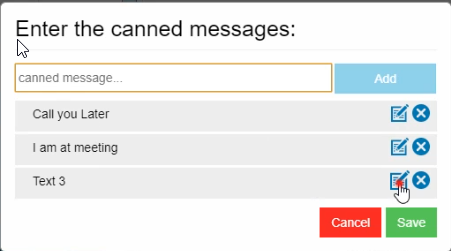
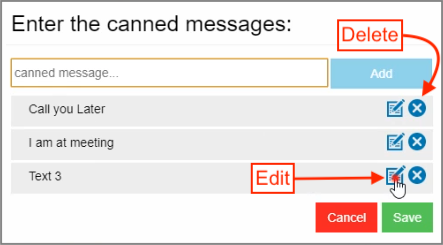
[TUT-35988] EKD 1.4 pre-defined section updates

diff --git a/src/ekd/1-4/guide/usage/index.md b/src/ekd/1-4/guide/usage/index.md
@@ -104,7 +104,7 @@ Before beginning a layout, please make note of the following:
  _Click image to enlarge, ESC to exit_.
  <br>
 8. **Repeat Step 7** until the layout is configured as desired. 
-9. **Click "Save Layout" button** to store settings. 
+9. **Click "Save Layout" button** to store the project settings. 
 10. **Click "Save Project" to create a project file for deployment**.
 
 -----
@@ -160,7 +160,7 @@ Before beginning a layout, please make note of the following:
  <br>
 7. **Click "Save Grid Layout" button** to store settings.<br> **`NOTE:` Once a grid is saved, its properties cannot be changed**.
 8. **Repeat Step 6** until all buttons in the layout are configured as desired. 
-9. **Click "Save Layout" button** to store settings. 
+9. **Click "Save Layout" button** to store the project settings. 
 10. **Click "Save Project" to create a project file for deployment**.
 <br>
 
@@ -257,7 +257,7 @@ Button Actions supported by EKD include predefined command strings for generatin
  _Click image to enlarge, ESC to exit_.
 <br>
 3. **Repeat Steps 1 and 2** until each button contains the desired Action.  
-4. **Click "Save Layout" button** to store settings. 
+4. **Click "Save Layout" button** to store the project settings. 
 5. **Click "Save Project" to create a project file for deployment**.
 * **Predefined command strings -** Enter an Android keyEvent value in the pop-up:
  * **key in caps -** Outputs an upper-case letter corresponding to the keyValue entered 
@@ -269,7 +269,7 @@ Button Actions supported by EKD include predefined command strings for generatin
  * **Switch-Scan -** Switches to the “scanning button" layout
  * **Switch-&#35;&#42;&#47; -** Switches to the “&#35;&#42;&#47;” (symbolic) layout
  * **Switch-CustomLayout -** Switches to a custom layout (enter a valid layout name in the pop-up)
- * **Scan Trigger -** Scans a barcode using DataWedge, which must be configured in advance of this command. See [DataWedge documentation](/datawedge/7-4/guide/utilities/ekb/) for more information. **Supported only with Press Action**
+ * **Scan Trigger -** Scans a barcode using DataWedge, which must be configured in advance of this command. See [DataWedge documentation](/datawedge/latest/guide/utilities/ekb/) for more information. **Supported only with Press Action**
 
 **See [all Unicode characters](https://unicode-table.com/en/)**<br>
 **See all [Android keyEvent values](https://developer.android.com/reference/android/view/KeyEvent)**
@@ -295,9 +295,7 @@ Button Actions supported by EKD include predefined command strings for generatin
 -----
 ### Predefined Responses
 
-Predefined responses appear in a list for easy selection, improving the speed and accuracy of responses when using Enterprise Keyboard. 
-
-##### This feature requires EKB 3.4 or later. 
+Predefined responses appear in a list for easy selection, improving the speed and accuracy of responses when using Enterprise Keyboard. Any key can contain a list of predefined responses that pops up when that key is pressed. Tapping on an item from the list enters that response into the focused field as if it had been typed in manually. 
 
 **Example Responses**:
 * "I'm in a meeting...please call back later"
@@ -306,19 +304,22 @@ Predefined responses appear in a list for easy selection, improving the speed an
 * "Please refer to patient record"
 * "Item out of stock"
 
+> **NOTE**: This feature requires Enterprise Keyboard 3.4 or later on the device. 
+
 #### To create predefined response(s): 
 
-1. In the Action section of the Button Properties panel, **select "Canned text" from the drop-down**: 
-<img alt="" style="height:250px" src="EKD-14_pre-defined_text_1.png"/>
+1. Create (or select) a button in the current layout.  
+2. In the Action section of the Button Properties panel, **select "Canned text" from the drop-down**: 
+<img alt="" style="height:150px" src="EKD-14_pre-defined_text_1.png"/>
  _Click image to enlarge, ESC to exit_.
 <br>
-2. **Enter a desired response** in the pop-up:
+3. **Enter a desired response** in the pop-up:
  <img alt="" style="height:150px" src="EKD-14_pre-defined_text_2.png"/>
-3. Click "Add" to store response and add another.
-4. Repeat Steps 2 and 3 until all responses are stored.
-5. Click "Save" to store all responses and exit pop-up.
-6. **Click "Save Layout" button** to store settings. 
-7. **Click "Save Project" to create a project file for deployment**.
+4. Click "Add" to store response and add another.
+5. Repeat Steps 3 and 4 until all responses are stored.
+6. Click "Save" to store all responses and exit pop-up.
+7. **Click "Save Layout" button** to store the project settings. 
+8. **Click "Save Project" to create a project file for deployment**.
 <br>
 
 ##### Predefined responses are stored and deployed with the layout.
@@ -327,23 +328,24 @@ Predefined responses appear in a list for easy selection, improving the speed an
 
 #### To edit or delete Predefined Response(s): 
 
-1. Open the key layout that contains the response list to be edited or deleted.
-2. In the layout section, select the button that contains the response list to be edited.  
+1. **Open the key layout project that contains the response list(s)** to be modified.
+2. In the layout, **select the button that contains the response list(s)** to be edited.  
 3. In the Action section of the Button Properties panel, **select "Canned text" from the drop-down**:
- <img alt="" style="height:250px" src="EKD-14_pre-defined_text_3.png"/>
+ <img alt="" style="height:250px" src="EKD-14_pre-defined_text_1.png"/>
  _Click image to enlarge, ESC to exit_.
 <br>
- A pop-up appears with the previously saved list of responses.
+ A pop-up appears with the list of responses currently stored with that button:
  <img alt="" style="height:250px" src="edit_predefined_message_1.png"/>
  _Click image to enlarge, ESC to exit_.
-4. **To Delete**, click the "X" and <u>skip to Step 8</u>.
+4. **To Delete a response**, click the "X" for the response(s). **<u>Then skip to Step 8</u>**.<br>
+ `WARNING:` Responses are deleted immediately. This action cannot be undone. 
 5. **To Edit**, click the edit button for the response to be edited:<br>
  <img alt="" style="height:250px" src="edit_predefined_message_2.png"/>
  _Click image to enlarge, ESC to exit_.
 6. Edit the response as desired.
-7. Repeat Steps 5 and 6 until all predefined responses appear as desired.  
+7. **Repeat Steps 5 and 6** until all predefined responses appear as desired.  
 8. **Click Save to store changes and exit the pop-up**. 
-9. **Click "Save Layout" button** to store settings. 
+9. **Click "Save Layout" button** to store the new project settings. 
 10. **Click "Save Project" to create a project file for deployment**.
 <br>
 
@@ -496,7 +498,7 @@ The data for custom key layout(s) is stored in the custom key-layout definition 
   
 ## VI. Switch Layouts
 
-This section explains the program logic involved with switching layouts with Android intents when focus of an input field changes. 
+This section explains the program logic involved when switching layouts with Android intents when focus of an input field changes. 
 
 > For programming guidance, see [Enterprise Keyboard APIs](/enterprise-keyboard/latest/guide/apis). <br>
 > For changing layouts through DataWedge, see the [DataWedge EKB configuration guide](/datawedge/latest/guide/utilities/ekb/). 
@@ -508,13 +510,11 @@ This section explains the program logic involved with switching layouts with And
  `/enterprise/device/settings/ekb/config/`
 * **Layout file must contain ALL layouts** being used by apps on the device
 
-> See the [Enterprise Keyboard Designer Guide](/ekd) for help creating a layout file. 
-
 -----
 
 ### Use Case 1
 
-This case describes an Android app with two text input fields. Substitute sample names shown below with those in the deployed [layout definition file](../deploy). 
+This case describes an Android app with two text input fields. Substitute sample names shown below with those in the deployed layout definition file (i.e. `myLayout.encrypted`). [More info](/enterprise-keyboard/latest/guide/deploy/). 
 
 * `editText1` input field uses the standard Enterprise Keyboard fixed layout, which includes numeric, alpha-numeric, scan and symbol keyboards manually switchable by the user as needed.  
 * `editText2` input field uses a custom layout made with EKD that contains keys specifically designed for a particular type of input. 
@@ -573,7 +573,7 @@ Layout projects can be saved and modified later for use on different devices, ad
 6. **Edit the layout as desired**.
 7. **To add a new layout to the project**, click the [+] icon on the EKD menu and follow steps in the [Create Layout(s)](#iicreatelayouts) section. 
 8. **Repeat Step 7** until the layout is configured as desired. 
-9. **Click "Save Layout" button** to store settings. 
+9. **Click "Save Layout" button** to store the new project settings. 
 10. **Click "Save Project" to create a project file for deployment**.
 
 -----
